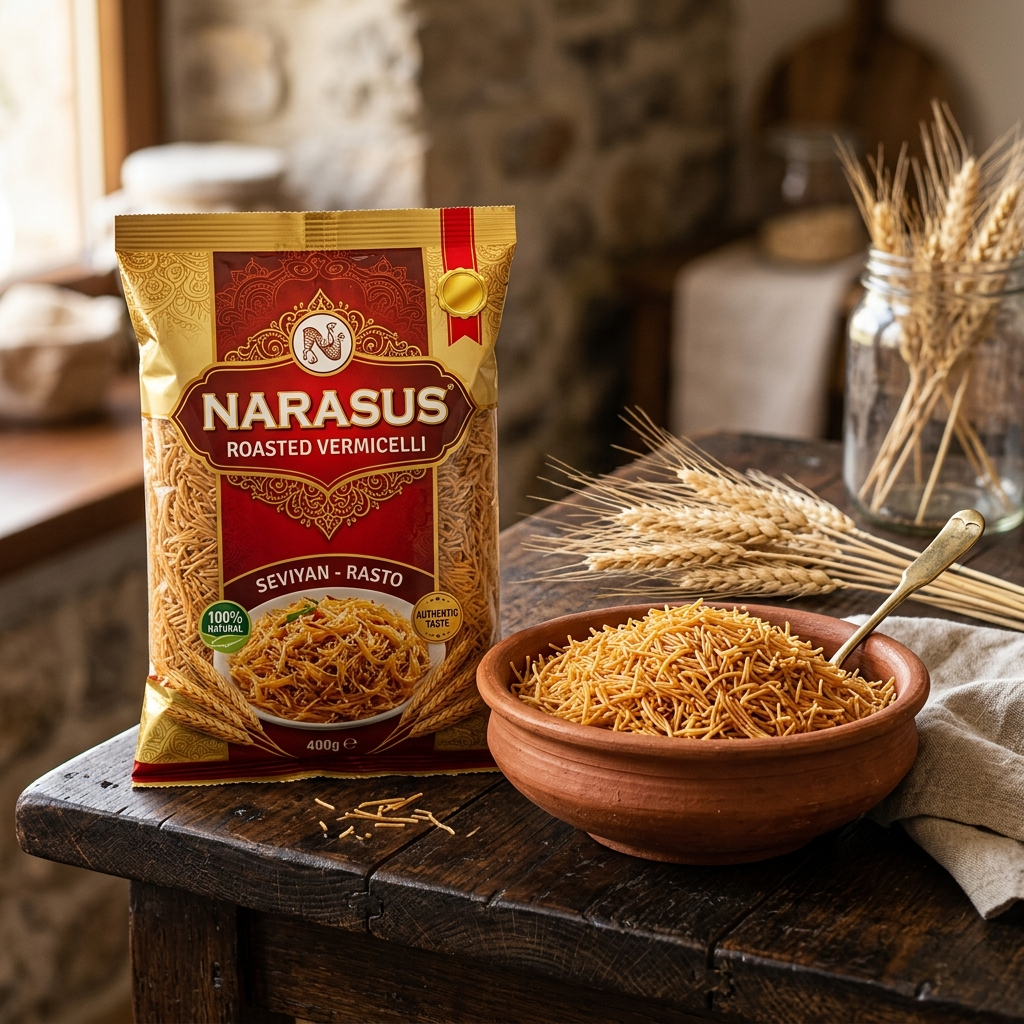
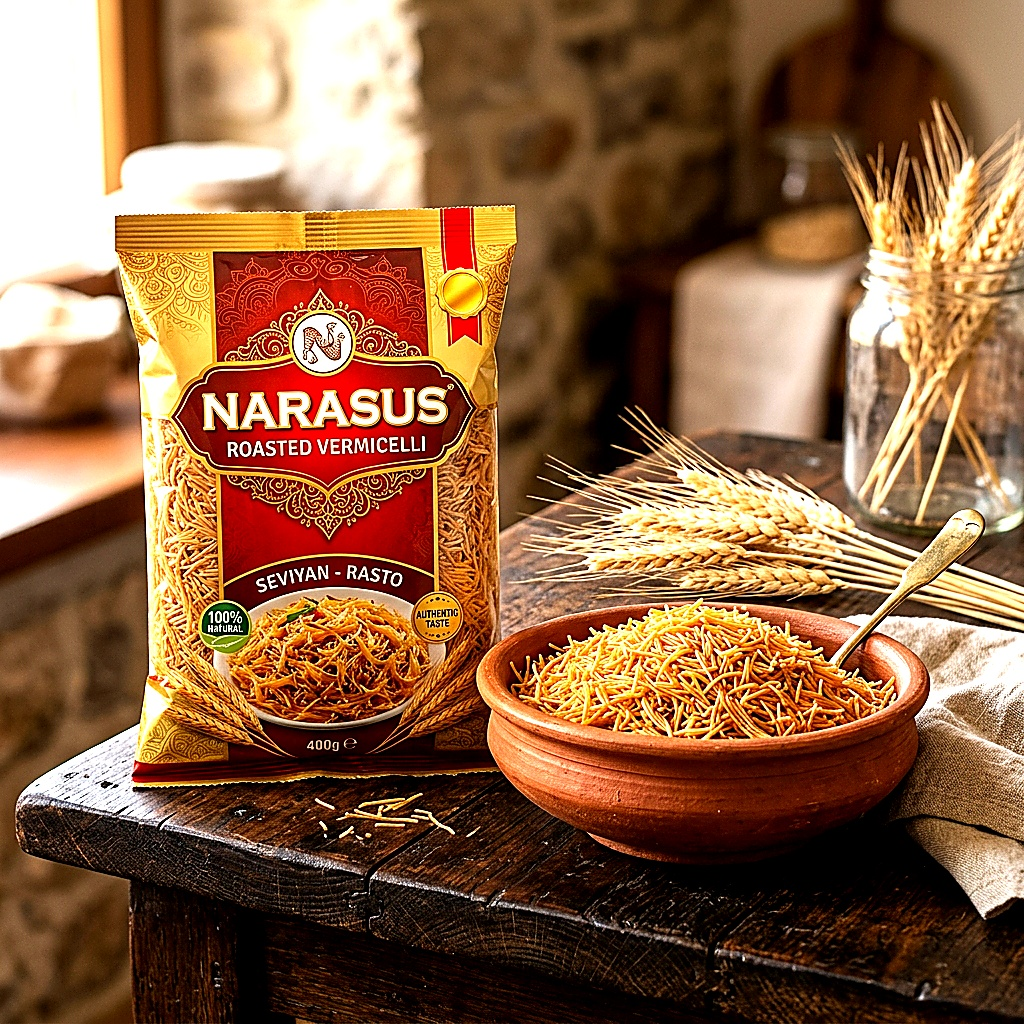
Enhance product and category images: replace low-res crops with official high-res category assets, square crop and brighten food and product photography with WebP optimization

diff --git a/components/CraftSection.tsx b/components/CraftSection.tsx
@@ -45,25 +45,25 @@ const CATEGORIES: CategoryItem[] = [
     id: "coffee",
     name: "Coffee",
     subtitle: "Freeze Dried & Traditional Salem Filter Blends",
-    icon: "/images/categories/category-coffee.png",
+    icon: "/images/categories/category-coffee.webp",
   },
   {
     id: "tea",
     name: "Tea",
     subtitle: "High-Grown Nilgiri CTC Dust & Whole Orthodox Leaf",
-    icon: "/images/categories/category-tea.png",
+    icon: "/images/categories/category-tea.webp",
   },
   {
     id: "food",
     name: "Food",
     subtitle: "Traditional Bilona Ghee, Spices & Pantry Staples",
-    icon: "/images/categories/category-food.png",
+    icon: "/images/categories/category-food.webp",
   },
   {
     id: "rudhram",
     name: "Rudhram",
     subtitle: "Artisanal Botanical & Ayurvedic Herbal Wellness Bars",
-    icon: "/images/categories/category-rudhram.png",
+    icon: "/images/categories/category-rudhram.webp",
   },
 ];
 
@@ -81,7 +81,7 @@ const PRODUCTS: ProductItem[] = [
     price: "₹180",
     mrp: "₹210",
     savings: "14% OFF",
-    image: "/images/products/product-1-gold-50g.jpg",
+    image: "/images/products/product-1-gold-50g.webp",
     features: ["Cryo-Lock™ Drying", "100% Pure Coffee", "Instant Velvety Crema"],
     rating: 4.9,
     reviewsCount: 1480,
@@ -101,7 +101,7 @@ const PRODUCTS: ProductItem[] = [
     price: "₹340",
     mrp: "₹395",
     savings: "14% OFF",
-    image: "/images/products/product-2-gold-royal-100g.jpg",
+    image: "/images/products/product-2-gold-royal-100g.webp",
     features: ["High-Altitude Beans", "Double Crystallized", "Airtight Golden Seal"],
     rating: 4.9,
     reviewsCount: 920,
@@ -121,7 +121,7 @@ const PRODUCTS: ProductItem[] = [
     price: "₹160",
     mrp: "₹185",
     savings: "14% OFF",
-    image: "/images/products/product-3-instastrong.jpg",
+    image: "/images/products/product-3-instastrong.webp",
     features: ["Intense Morning Roast", "Full-Bodied Decoction", "Rich Frothy Cup"],
     rating: 4.8,
     reviewsCount: 850,
@@ -141,7 +141,7 @@ const PRODUCTS: ProductItem[] = [
     price: "₹145",
     mrp: "₹170",
     savings: "15% OFF",
-    image: "/images/products/product-4-deluxe-filter.jpg",
+    image: "/images/products/product-4-deluxe-filter.webp",
     features: ["80:20 Heritage Recipe", "Slow Drip Decoction", "Authentic Salem Taste"],
     rating: 5.0,
     reviewsCount: 2100,
@@ -163,7 +163,7 @@ const PRODUCTS: ProductItem[] = [
     price: "₹190",
     mrp: "₹220",
     savings: "14% OFF",
-    image: "/images/products/tea-1-royal-dust.jpg",
+    image: "/images/products/tea-1-royal-dust.webp",
     features: ["Nilgiri High-Grown", "Deep Amber Liquor", "Ideal with Fresh Milk"],
     rating: 4.9,
     reviewsCount: 1120,
@@ -183,7 +183,7 @@ const PRODUCTS: ProductItem[] = [
     price: "₹260",
     mrp: "₹295",
     savings: "12% OFF",
-    image: "/images/products/tea-2-classic-leaf.jpg",
+    image: "/images/products/tea-2-classic-leaf.webp",
     features: ["Whole Orthodox Leaf", "Golden Liquor Clarity", "Airtight Keepsake Tin"],
     rating: 4.8,
     reviewsCount: 740,
@@ -203,7 +203,7 @@ const PRODUCTS: ProductItem[] = [
     price: "₹210",
     mrp: "₹240",
     savings: "13% OFF",
-    image: "/images/products/tea-3-masala-chai.jpg",
+    image: "/images/products/tea-3-masala-chai.webp",
     features: ["7 Authentic Spices", "Immunity Boosting", "Zesty Aromatic Kick"],
     rating: 4.9,
     reviewsCount: 980,
@@ -223,7 +223,7 @@ const PRODUCTS: ProductItem[] = [
     price: "₹230",
     mrp: "₹265",
     savings: "13% OFF",
-    image: "/images/products/tea-4-nilgiri-green.jpg",
+    image: "/images/products/tea-4-nilgiri-green.webp",
     features: ["Non-Fermented Leaf", "Rich in Polyphenols", "Delicate Spring Aroma"],
     rating: 4.8,
     reviewsCount: 650,
@@ -245,7 +245,7 @@ const PRODUCTS: ProductItem[] = [
     price: "₹420",
     mrp: "₹480",
     savings: "13% OFF",
-    image: "/images/products/food-1-pure-ghee.jpg",
+    image: "/images/products/food-1-pure-ghee.webp",
     features: ["Granular Danedar Texture", "100% Pure Cow Milk", "Rich Nutty Aroma"],
     rating: 5.0,
     reviewsCount: 1640,
@@ -265,7 +265,7 @@ const PRODUCTS: ProductItem[] = [
     price: "₹75",
     mrp: "₹85",
     savings: "12% OFF",
-    image: "/images/products/food-2-roasted-vermicelli.jpg",
+    image: "/images/products/food-2-roasted-vermicelli.webp",
     features: ["Pre-Roasted Golden", "Non-Sticky Strands", "High Durum Protein"],
     rating: 4.8,
     reviewsCount: 520,
@@ -285,7 +285,7 @@ const PRODUCTS: ProductItem[] = [
     price: "₹110",
     mrp: "₹125",
     savings: "12% OFF",
-    image: "/images/products/food-3-sambar-powder.jpg",
+    image: "/images/products/food-3-sambar-powder.webp",
     features: ["Stone-Ground Recipe", "Zero Preservatives", "Authentic Salem Flavour"],
     rating: 4.9,
     reviewsCount: 890,
@@ -305,7 +305,7 @@ const PRODUCTS: ProductItem[] = [
     price: "₹240",
     mrp: "₹275",
     savings: "13% OFF",
-    image: "/images/products/food-4-sesame-oil.jpg",
+    image: "/images/products/food-4-sesame-oil.webp",
     features: ["Traditional Vaagai Chekku", "Palm Jaggery Extracted", "Raw Unrefined"],
     rating: 4.9,
     reviewsCount: 610,
@@ -327,7 +327,7 @@ const PRODUCTS: ProductItem[] = [
     price: "₹130",
     mrp: "₹150",
     savings: "13% OFF",
-    image: "/images/products/rudhram-1-sandal-soap.jpg",
+    image: "/images/products/rudhram-1-sandal-soap.webp",
     features: ["Pure Sandalwood Oil", "Cold-Process Cured", "Skin Cooling Comfort"],
     rating: 4.9,
     reviewsCount: 780,
@@ -347,7 +347,7 @@ const PRODUCTS: ProductItem[] = [
     price: "₹135",
     mrp: "₹155",
     savings: "13% OFF",
-    image: "/images/products/rudhram-2-rosemary-soap.jpg",
+    image: "/images/products/rudhram-2-rosemary-soap.webp",
     features: ["Crushed Cinnamon Scrub", "Fresh Rosemary Infusion", "Deep Skin Renewal"],
     rating: 5.0,
     reviewsCount: 690,
@@ -367,7 +367,7 @@ const PRODUCTS: ProductItem[] = [
     price: "₹120",
     mrp: "₹140",
     savings: "14% OFF",
-    image: "/images/products/rudhram-3-neem-soap.jpg",
+    image: "/images/products/rudhram-3-neem-soap.webp",
     features: ["Organic Neem Leaf", "Wild Khus Roots", "Purifying Antibacterial"],
     rating: 4.8,
     reviewsCount: 540,
@@ -387,7 +387,7 @@ const PRODUCTS: ProductItem[] = [
     price: "₹160",
     mrp: "₹185",
     savings: "14% OFF",
-    image: "/images/products/rudhram-4-kumkumadi-soap.jpg",
+    image: "/images/products/rudhram-4-kumkumadi-soap.webp",
     features: ["Kumkumadi Tailam", "Kashmiri Saffron", "Golden Radiance"],
     rating: 4.9,
     reviewsCount: 910,
